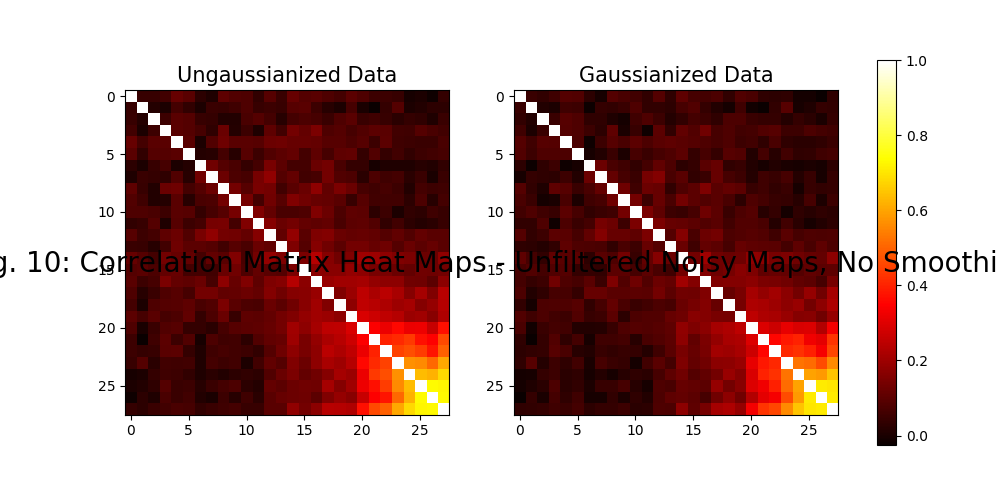
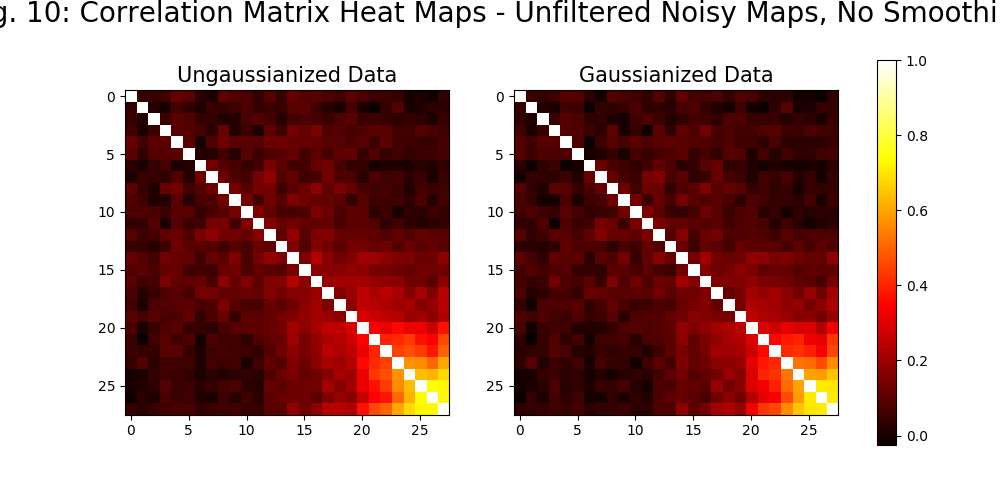
format

Changed region(s): [[0.0, 0.0, 1.0, 0.06], [0.0, 0.48, 1.0, 0.57]]

diff --git a/Parallel Gaussianization/Noisy Maps/gauss_SNR_nois.py b/Parallel Gaussianization/Noisy Maps/gauss_SNR_nois.py
@@ -174,7 +174,7 @@ correlgauss = corr_mat(covargauss)
 fig2, (ax1, ax2) = plt.subplots(nrows=1, ncols=2, figsize = (10, 5))
 axlist = [ax1, ax2]
 
-fig2.suptitle("Fig. 10: Correlation Matrix Heat Maps - Unfiltered Noisy Maps, No Smoothing", fontsize = "20", y = 0.5)
+fig2.suptitle("Fig. 10: Correlation Matrix Heat Maps - Unfiltered Noisy Maps, No Smoothing", fontsize = "20", y = 1)
 first = ax1.imshow(np.array(correl), cmap = 'hot', vmin = -0.025, vmax = 1.0)
 ax1.set_title('Ungaussianized Data', fontsize = "15")
 
